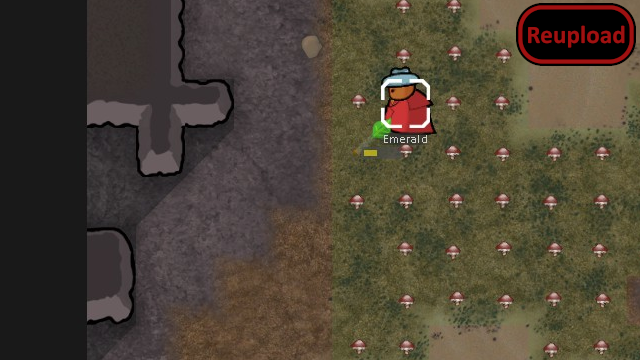
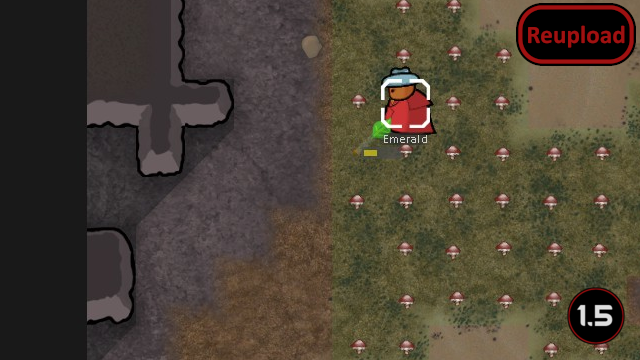
Mod updated for 1.5 and passed autotests

Changed region(s): [[0.875, 0.7944, 1.0, 0.9778]]

diff --git a/Source/LocalGrowingFirst/WorkGiver_LocalZoneWrapper.cs b/Source/LocalGrowingFirst/WorkGiver_LocalZoneWrapper.cs
@@ -100,12 +100,12 @@ public class WorkGiver_LocalZoneWrapper : WorkGiver_Scanner
             , BindingFlags.NonPublic | BindingFlags.Public | BindingFlags.Instance);
         wantedPlantDef?.SetValue(wrappedScanner, null);
 
-        if (!(pawn.Map.zoneManager.ZoneAt(pawn.Position) is Zone_Growing growZone))
+        if (pawn.Map.zoneManager.ZoneAt(pawn.Position) is not Zone_Growing growZone)
         {
             //Try edge cells in pawn facing direction next
             growZone = GenAdj
                 .CellsAdjacentAlongEdge(pawn.Position, pawn.Rotation, new IntVec2(1, 1),
-                    Utilities.EdgeFacingRotation(pawn.Rotation)).Select(p => pawn.Map.zoneManager.ZoneAt(p))
+                    pawn.Rotation.AsInt).Select(p => pawn.Map.zoneManager.ZoneAt(p))
                 .OfType<Zone_Growing>().FirstOrDefault();
 
             if (growZone == default(Zone_Growing))
@@ -123,7 +123,7 @@ public class WorkGiver_LocalZoneWrapper : WorkGiver_Scanner
             //If there is an extraRequirement then check it, otherwise true
             var extraRequirements = wrappedScanner.GetType().GetMethod("ExtraRequirements"
                 , BindingFlags.NonPublic | BindingFlags.Public | BindingFlags.Instance);
-            if ((bool?)extraRequirements?.Invoke(wrappedScanner, new object[] { growZone, pawn }) ?? true)
+            if ((bool?)extraRequirements?.Invoke(wrappedScanner, [growZone, pawn]) ?? true)
             {
                 if (pawn.CanReach(growZone.Cells[0], PathEndMode.OnCell, maxDanger))
                 {

diff --git a/Source/LocalGrowingFirst/GrowingDefWrapper.cs b/Source/LocalGrowingFirst/GrowingDefWrapper.cs
@@ -1,5 +1,4 @@
-using System.Collections.Generic;
-using System.Linq;
+using System.Linq;
 using RimWorld;
 using Verse;
 
@@ -39,18 +38,18 @@ public static class GrowingDefWrapper
             verb = def.verb,
             gerund = def.gerund,
             emergency = def.emergency,
-            requiredCapacities = new List<PawnCapacityDef>(def.requiredCapacities),
+            requiredCapacities = [..def.requiredCapacities],
             directOrderable = def.directOrderable,
             scanCells = def.scanCells,
             scanThings = def.scanThings,
             tagToGive = def.tagToGive,
-            modExtensions = new List<DefModExtension>(1)
-            {
+            modExtensions =
+            [
                 new DefModExt_LocalZoneWrapping
                 {
                     defToWrap = def
                 }
-            }
+            ]
         };
     }
 }

diff --git a/Source/LocalGrowingFirst/Utilities.cs b/Source/LocalGrowingFirst/Utilities.cs
@@ -21,11 +21,6 @@ public static class Utilities
             return LinkDirections.Down;
         }
 
-        if (rot == Rot4.West)
-        {
-            return LinkDirections.Left;
-        }
-
-        return LinkDirections.None;
+        return rot == Rot4.West ? LinkDirections.Left : LinkDirections.None;
     }
 }

diff --git a/README.md b/README.md
@@ -22,11 +22,13 @@ Ensures pawns will harvest/sow within their current growing zone before heading 
 
 -  See if the the error persists if you just have this mod and its requirements active.
 -  If not, try adding your other mods until it happens again.
--  Post your error-log using https://steamcommunity.com/workshop/filedetails/?id=818773962]HugsLib and command Ctrl+F12
+-  Post your error-log using https://steamcommunity.com/workshop/filedetails/?id=818773962]HugsLib or the standalone https://steamcommunity.com/sharedfiles/filedetails/?id=2873415404]Uploader and command Ctrl+F12
 -  For best support, please use the Discord-channel for error-reporting.
 -  Do not report errors by making a discussion-thread, I get no notification of that.
 -  If you have the solution for a problem, please post it to the GitHub repository.
+-  Use https://github.com/RimSort/RimSort/releases/latest]RimSort to sort your mods
 
 
 
+https://steamcommunity.com/sharedfiles/filedetails/changelog/2068500103]![Image](https://img.shields.io/github/v/release/emipa606/LocalGrowingFirst?label=latest%20version&style=plastic&color=9f1111&labelColor=black)
 
